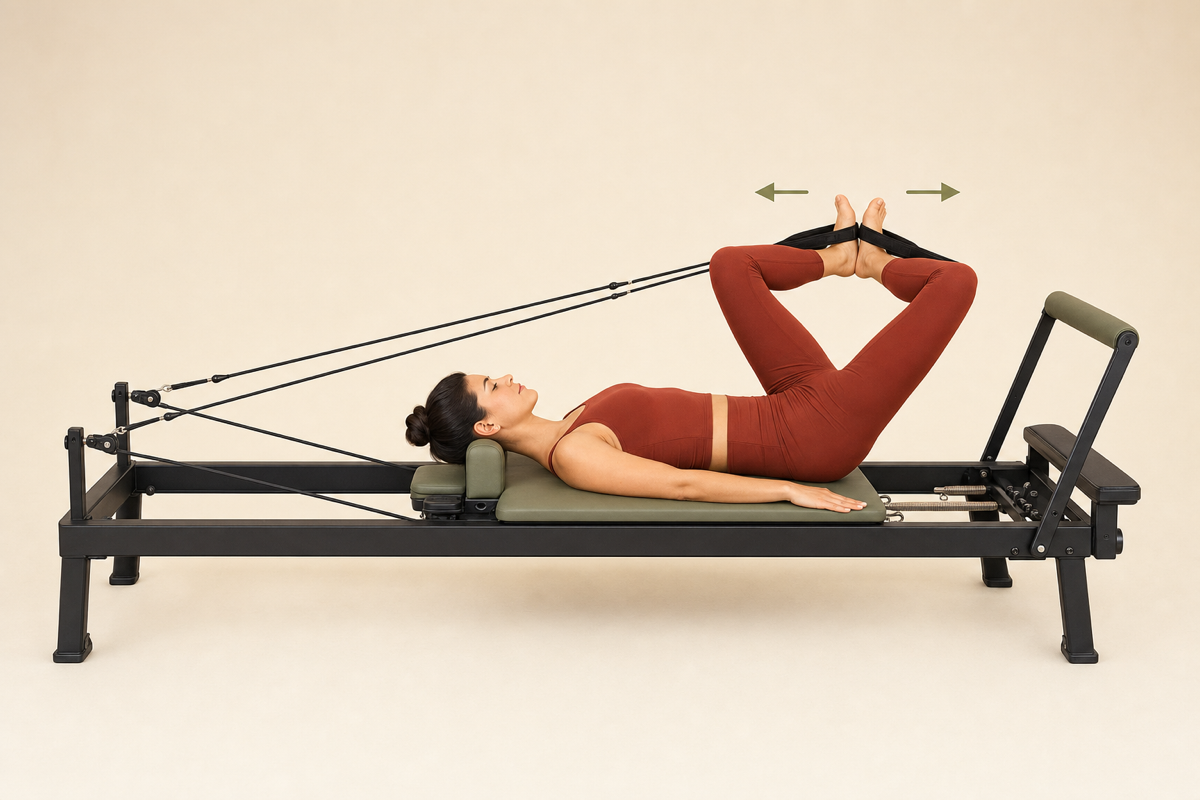
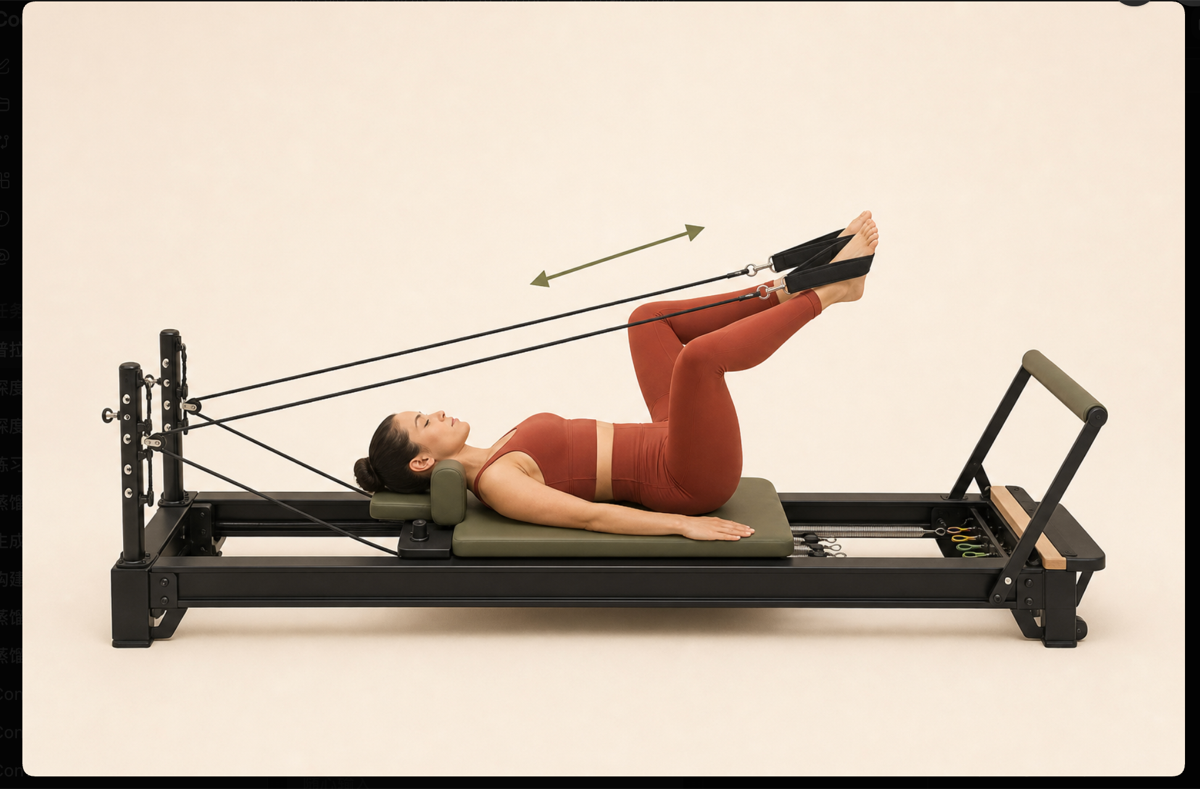
Update High Frog and distinguish footwork positions

diff --git a/src/App.tsx b/src/App.tsx
@@ -51,7 +51,7 @@ const reformerExpansionNames: [string, string][] = [
 ]
 const reformerExpansionCustomImages: Record<string, string> = {
   'Short Box Round Back': 'assets/reformer-expansion/short-box-round-back.png?v=2',
-  'High Frog': 'assets/reformer-expansion/high-frog.png?v=1',
+  'High Frog': 'assets/reformer-expansion/high-frog.png?v=2',
   'Hamstring Curls': 'assets/reformer-custom/hamstring-curls.png?v=1',
   Breaststroke: 'assets/reformer-custom/breaststroke.png?v=1',
   'Thigh Stretch': 'assets/reformer-custom/thigh-stretch.png?v=1',
@@ -63,7 +63,11 @@ const reformerAdditionalNames: [string, string][] = [
   ['Rowing Front', '前向划船'], ['Pulling Straps', '拉带'], ['T-Pull', 'T形拉带'], ['Down Stretch', '下伸展'], ['Up Stretch', '上伸展'],
   ['Knee Stretches Round', '圆背膝部伸展'], ['Knee Stretches Arched', '拱背膝部伸展'], ['Pelvic Lift', '骨盆抬升'], ['Side Splits', '侧劈腿'],
 ]
-const reformerAdditionalExercises: Exercise[] = reformerAdditionalNames.map(([en, zh], index) => ({ id: 169 + index, en, zh, image: assetUrl(`assets/reformer-additional/${String(index + 1).padStart(2, '0')}.png`), kind: 'Reformer' as const }))
+const reformerAdditionalCustomImages: Record<string, string> = {
+  'Footwork Toes': 'assets/reformer-custom/footwork-toes.png?v=1',
+  'Footwork Heels': 'assets/reformer-custom/footwork-heels.png?v=1',
+}
+const reformerAdditionalExercises: Exercise[] = reformerAdditionalNames.map(([en, zh], index) => ({ id: 169 + index, en, zh, image: assetUrl(reformerAdditionalCustomImages[en] || `assets/reformer-additional/${String(index + 1).padStart(2, '0')}.png`), kind: 'Reformer' as const }))
 const reformerGeneratedNames: [string, string][] = [
   ['Single Leg Footwork', '单腿脚踏'], ['Footwork on Footplate', '脚踏板脚步'], ['Jumping on Footplate', '脚踏板跳跃'],
   ['Supine Arm Work', '仰卧手臂练习'], ['Bridging', '桥式'], ['Kneeling Abdominals Facing Back', '面向后跪姿腹部'],